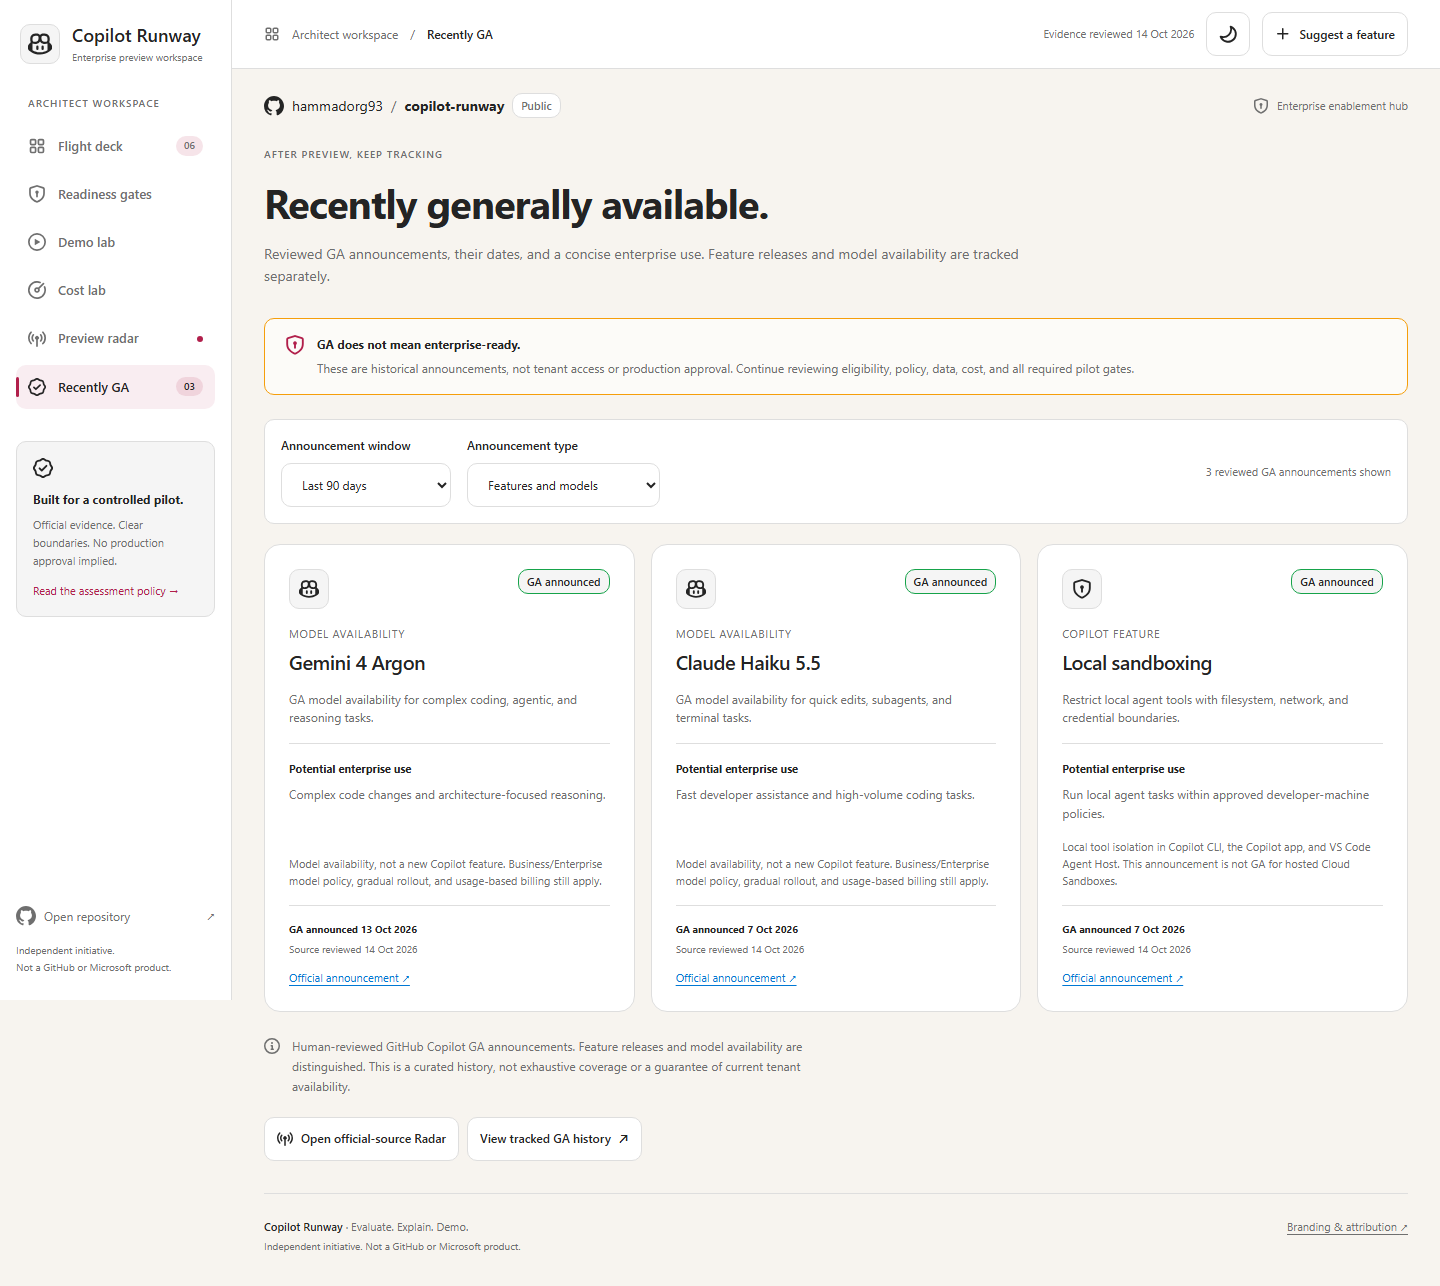
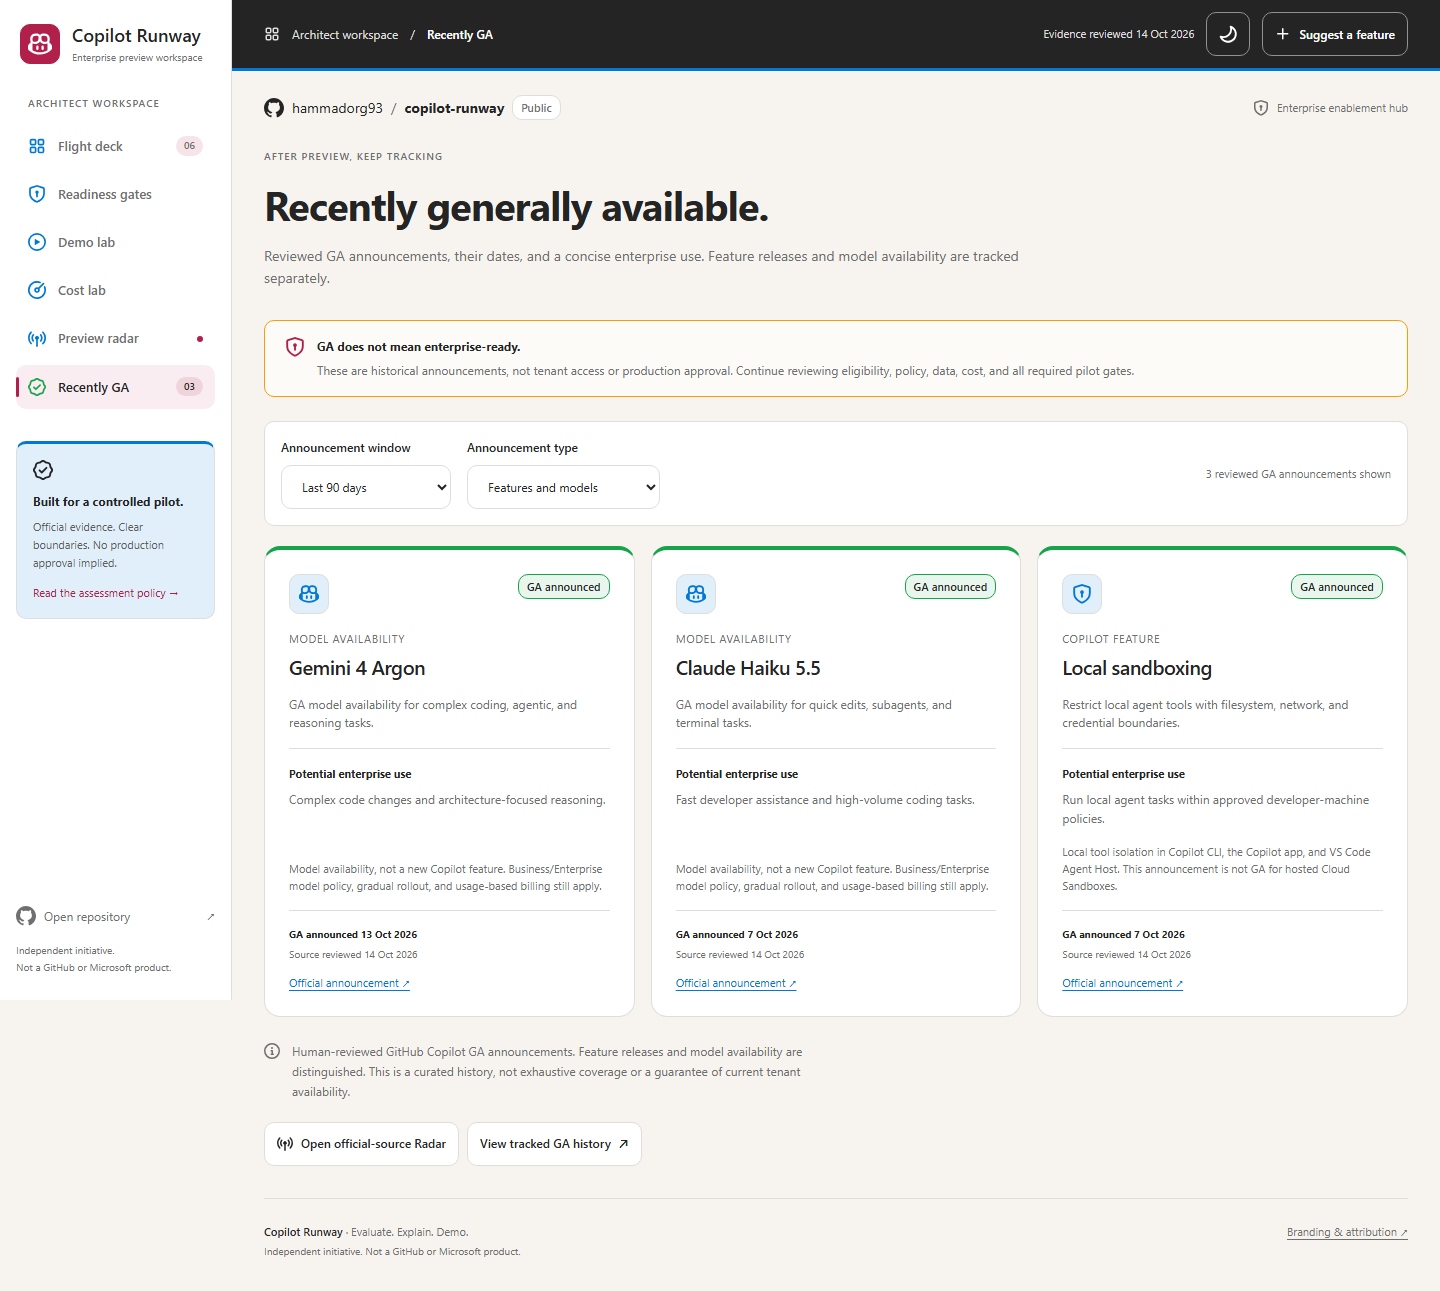
Add Microsoft-blue panels and GitHub-style workspace contrast
Copilot-Session: 4c4f8061-851a-420d-8272-cc33c647e34b

diff --git a/site/styles.css b/site/styles.css
@@ -23,6 +23,17 @@
   --cp-panel-strong: rgba(255, 255, 255, 0.96);
   --cp-sheen: rgba(255, 255, 255, 0.55);
   --cp-highlight: rgba(177, 31, 75, 0.12);
+  --cp-link-soft: color-mix(in srgb, var(--cp-link) 12%, var(--cp-surface));
+  --cp-link-panel: color-mix(in srgb, var(--cp-link) 24%, var(--cp-surface));
+  --cp-link-fg: var(--cp-accent-fg);
+  --cp-success-soft: color-mix(in srgb, var(--cp-success) 10%, var(--cp-surface));
+  --cp-warning-soft: color-mix(in srgb, var(--cp-warning) 12%, var(--cp-surface));
+  --cp-danger-soft: color-mix(in srgb, var(--cp-danger) 8%, var(--cp-surface));
+  --cp-chrome-bg: var(--cp-text);
+  --cp-chrome-fg: var(--cp-surface);
+  --cp-chrome-muted: var(--cp-border);
+  --cp-chrome-hover: color-mix(in srgb, var(--cp-chrome-bg) 80%, var(--cp-chrome-fg));
+  --cp-hero-wash: linear-gradient(115deg, var(--cp-link-panel), var(--cp-link-soft) 52%, var(--cp-surface) 52%, var(--cp-accent-soft));
 }
 html[data-theme="dark"] {
   color-scheme: dark;
@@ -49,6 +60,9 @@ html[data-theme="dark"] {
   --cp-panel-strong: rgba(41, 41, 41, 0.96);
   --cp-sheen: rgba(255, 255, 255, 0.04);
   --cp-highlight: rgba(253, 142, 161, 0.12);
+  --cp-chrome-bg: var(--cp-surface);
+  --cp-chrome-fg: var(--cp-text);
+  --cp-chrome-muted: var(--cp-text-soft);
 }
 * { box-sizing: border-box; }
 [hidden] { display: none !important; }
@@ -81,7 +95,7 @@ svg.octicon { display: block; fill: currentColor; width: 20px; height: 20px; fle
 .brand { display: flex; align-items: center; gap: 12px; padding: 0 4px; color: var(--cp-text); text-decoration: none; font-size: 18px; line-height: 1.3; font-weight: 600; }
 .brand strong { display: inline; font-size: 18px; font-weight: 600; }
 .brand small { display: block; color: var(--cp-text-soft); font-size: 10px; font-weight: 400; margin-top: 4px; }
-.brand-mark { display: flex; align-items: center; justify-content: center; background: var(--cp-surface-soft); color: var(--cp-text); border: 1px solid var(--cp-border); border-radius: .625rem; width: 40px; height: 40px; flex-shrink: 0; }
+.brand-mark { display: flex; align-items: center; justify-content: center; background: var(--cp-accent); color: var(--cp-accent-fg); border: 1px solid var(--cp-accent); border-radius: .625rem; width: 40px; height: 40px; flex-shrink: 0; }
 .brand-mark svg { width: 24px; height: 24px; }
 .nav-eyebrow { color: var(--cp-text-soft); font-size: 10px; font-weight: 600; letter-spacing: .1em; margin: 32px 12px 12px; }
 .sidebar nav { display: grid; gap: 4px; }
@@ -90,25 +104,28 @@ svg.octicon { display: block; fill: currentColor; width: 20px; height: 20px; fle
 .nav-button.active { background: var(--cp-accent-soft); color: var(--cp-text); font-weight: 600; }
 .nav-button.active::before { position: absolute; content: ""; width: 3px; height: 20px; left: 0; top: calc(50% - 10px); border-radius: 4px; background: var(--cp-accent); }
 .nav-button svg { width: 18px; height: 18px; }
+.nav-button [data-icon] { color: var(--cp-link); }
+.nav-button.active [data-icon] { color: var(--cp-accent); }
+.nav-button[data-view="ga"] [data-icon] { color: var(--cp-success); }
 .nav-count { margin-left: auto; font-size: 10px; padding: 2px 8px; background: var(--cp-highlight); border-radius: .625rem; font-variant-numeric: tabular-nums; }
 .live-dot { width: 6px; height: 6px; display: inline-block; border-radius: 50%; background: var(--cp-accent); flex: 0 0 auto; }
 .nav-button .live-dot { margin-left: auto; }
-.sidebar-note { margin-top: 32px; padding: 16px; border: 1px solid var(--cp-border); border-radius: .625rem; font-size: 12px; background: var(--cp-surface-soft); }
+.sidebar-note { margin-top: 32px; padding: 16px; border: 1px solid var(--cp-border); border-top: 3px solid var(--cp-link); border-radius: .625rem; font-size: 12px; background: var(--cp-link-soft); }
 .sidebar-note .small-icon { color: var(--cp-text); margin-bottom: 12px; }
 .sidebar-note strong { display: block; font-size: 12px; margin-bottom: 8px; }
-.sidebar-note p { font-size: 11px; line-height: 1.6; margin-bottom: 12px; }
+.sidebar-note p { font-size: 11px; line-height: 1.6; margin-bottom: 12px; color: var(--cp-text-muted); }
 .sidebar-note a { font-size: 11px; color: var(--cp-accent); text-decoration: none; }
 .sidebar-bottom { margin-top: auto; padding-top: 32px; }
 .sidebar-bottom a { display: flex; gap: 8px; align-items: center; text-decoration: none; color: var(--cp-text-soft); font-size: 12px; }
 .sidebar-bottom a span:last-child { margin-left: auto; }
 .sidebar-bottom small { display: block; color: var(--cp-text-soft); margin-top: 16px; font-size: 10px; line-height: 1.7; }
 .workspace { min-width: 0; }
-.topbar { position: sticky; top: 0; z-index: 3; display: flex; justify-content: space-between; align-items: center; padding: 12px 32px; border-bottom: 1px solid var(--cp-border); gap: 16px; min-height: 64px; background: var(--cp-surface); }
-.breadcrumb { display: flex; align-items: center; gap: 12px; color: var(--cp-text-soft); font-size: 12px; }
-.breadcrumb strong { color: var(--cp-text); font-weight: 600; }
+.topbar { position: sticky; top: 0; z-index: 3; display: flex; justify-content: space-between; align-items: center; padding: 12px 32px; border-bottom: 3px solid var(--cp-link); gap: 16px; min-height: 64px; background: var(--cp-chrome-bg); color: var(--cp-chrome-fg); }
+.breadcrumb { display: flex; align-items: center; gap: 12px; color: var(--cp-chrome-muted); font-size: 12px; }
+.breadcrumb strong { color: var(--cp-chrome-fg); font-weight: 600; }
 .breadcrumb-icon svg { width: 16px; height: 16px; }
 .topbar-actions { display: flex; gap: 12px; align-items: center; }
-.topbar-date { font-size: 11px; color: var(--cp-text-soft); }
+.topbar-date { font-size: 11px; color: var(--cp-chrome-muted); }
 .button, .icon-button { display: inline-flex; justify-content: center; align-items: center; gap: 8px; border-radius: .625rem; border: 1px solid var(--cp-border); padding: 12px 16px; background: var(--cp-surface); color: var(--cp-text); text-decoration: none; font-weight: 600; font-size: 13px; line-height: 1.4; }
 .button:hover, .icon-button:hover { background: var(--cp-surface-soft); border-color: var(--cp-border-strong); }
 .button-primary { background: var(--cp-accent); color: var(--cp-accent-fg); border-color: var(--cp-accent); }
@@ -116,6 +133,8 @@ svg.octicon { display: block; fill: currentColor; width: 20px; height: 20px; fle
 .button-small { padding: 8px 12px; min-height: 44px; font-size: 12px; }
 .button-small svg { width: 16px; height: 16px; }
 .icon-button { padding: 8px; min-width: 44px; min-height: 44px; background: var(--cp-surface); }
+.topbar .button, .topbar .icon-button { background: var(--cp-chrome-bg); color: var(--cp-chrome-fg); border-color: var(--cp-border-strong); }
+.topbar .button:hover, .topbar .icon-button:hover { background: var(--cp-chrome-hover); border-color: var(--cp-chrome-fg); }
 .text-link { border: 0; padding: 8px 0; min-height: 44px; display: inline-flex; gap: 8px; align-items: center; background: inherit; color: var(--cp-accent); font-size: 13px; font-weight: 600; text-decoration: none; }
 .text-link:hover { text-decoration: underline; }
 main { max-width: 1584px; margin: 0 auto; padding: 24px 32px 32px; outline: 0; }
@@ -127,20 +146,21 @@ main { max-width: 1584px; margin: 0 auto; padding: 24px 32px 32px; outline: 0; }
 .repo-identity a > span[aria-hidden] { color: var(--cp-text-soft); }
 .workspace-label { display: flex; align-items: center; gap: 8px; color: var(--cp-text-soft); font-size: 11px; white-space: nowrap; }
 .workspace-label svg { width: 16px; height: 16px; }
-.hero { display: grid; grid-template-columns: minmax(0, 1.2fr) minmax(320px, 1fr); gap: 32px; align-items: center; border: 1px solid var(--cp-border); border-radius: 16px; background: var(--cp-surface); padding: 32px; margin-bottom: 20px; }
+.hero { display: grid; grid-template-columns: minmax(0, 1.2fr) minmax(320px, 1fr); gap: 32px; align-items: center; border: 1px solid var(--cp-border); border-top: 4px solid var(--cp-link); border-radius: 16px; background: var(--cp-surface); background-image: var(--cp-hero-wash); padding: 32px; margin-bottom: 20px; }
 .eyebrow { display: inline-flex; gap: 8px; align-items: center; font-size: 10px; font-weight: 600; letter-spacing: .1em; color: var(--cp-text-soft); margin-bottom: 16px; }
 .eyebrow svg { width: 18px; height: 18px; color: var(--cp-text); }
 .hero h1 { margin-bottom: 16px; }
-.hero h1 span { color: var(--cp-text); }
-.hero-copy > p { line-height: 1.7; font-size: 14px; max-width: 440px; }
+.hero h1 span { color: var(--cp-accent); }
+.hero-copy > p { line-height: 1.7; font-size: 14px; max-width: 440px; color: var(--cp-text); }
+.hero .eyebrow { color: var(--cp-text); }
 .hero-actions { display: flex; align-items: center; flex-wrap: wrap; gap: 12px; margin-top: 24px; }
 .hero-actions .button { font-size: 12px; }
 .hero-actions svg { width: 16px; height: 16px; }
-.hero-proof { display: flex; flex-wrap: wrap; gap: 12px 16px; margin-top: 20px; color: var(--cp-text-soft); font-size: 10px; }
+.hero-proof { display: flex; flex-wrap: wrap; gap: 12px 16px; margin-top: 20px; color: var(--cp-text); font-size: 10px; }
 .hero-proof > span { display: inline-flex; align-items: center; gap: 6px; }
 .hero-proof svg { width: 14px; height: 14px; }
 .kit-preview { min-width: 0; border: 1px solid var(--cp-border); border-radius: .625rem; overflow: hidden; background: var(--cp-surface); }
-.kit-titlebar { display: flex; justify-content: space-between; align-items: center; flex-wrap: wrap; gap: 8px; padding: 12px 16px; border-bottom: 1px solid var(--cp-border); background: var(--cp-surface-soft); }
+.kit-titlebar { display: flex; justify-content: space-between; align-items: center; flex-wrap: wrap; gap: 8px; padding: 12px 16px; border-bottom: 1px solid var(--cp-border); background: var(--cp-link-soft); }
 .kit-titlebar > span { display: flex; align-items: center; gap: 8px; font-size: 11px; }
 .kit-titlebar svg { width: 16px; height: 16px; }
 .kit-heading { display: flex; gap: 12px; align-items: center; padding: 20px 16px; }
@@ -160,11 +180,17 @@ main { max-width: 1584px; margin: 0 auto; padding: 24px 32px 32px; outline: 0; }
 .kit-footer svg { width: 14px; height: 14px; }
 .metrics { display: grid; grid-template-columns: repeat(4, minmax(0, 1fr)); gap: 12px; margin-bottom: 32px; }
 .metric { border: 1px solid var(--cp-border); border-radius: .625rem; padding: 16px 20px; background: var(--cp-surface); position: relative; }
+.metric:nth-child(1), .metric:nth-child(2) { border-top: 3px solid var(--cp-link); background: var(--cp-link-soft); }
+.metric:nth-child(3) { border-top: 3px solid var(--cp-accent); background: var(--cp-accent-soft); }
+.metric:nth-child(4) { border-top: 3px solid var(--cp-warning); background: var(--cp-warning-soft); }
+.metric:nth-child(1) .metric-icon, .metric:nth-child(2) .metric-icon { color: var(--cp-link); }
+.metric:nth-child(3) .metric-icon { color: var(--cp-accent); }
+.metric:nth-child(4) .metric-icon { color: var(--cp-warning); }
 .metric-icon { position: absolute; top: 16px; right: 16px; color: var(--cp-text-soft); }
 .metric-icon svg { width: 18px; height: 18px; }
 .metric strong { display: block; font-size: 28px; font-weight: 600; line-height: 1.2; letter-spacing: -.03em; font-variant-numeric: tabular-nums; }
 .metric-label { display: block; font-size: 13px; margin: 8px 0 4px; font-weight: 600; }
-.metric small { display: block; color: var(--cp-text-soft); font-size: 12px; line-height: 1.5; }
+.metric small { display: block; color: var(--cp-text-muted); font-size: 12px; line-height: 1.5; }
 .section-heading { display: flex; justify-content: space-between; gap: 20px; align-items: flex-end; margin-bottom: 24px; }
 .section-heading .eyebrow { margin-bottom: 8px; }
 .section-heading h2 { font-size: 24px; }
@@ -185,9 +211,10 @@ kbd { border: 1px solid var(--cp-border); border-radius: 4px; padding: 0 6px; fo
 .result-count { font-size: 12px; color: var(--cp-text-soft); white-space: nowrap; }
 .feature-grid { display: grid; grid-template-columns: repeat(3, minmax(0, 1fr)); gap: 16px; }
 .feature-card { min-width: 0; border: 1px solid var(--cp-border); border-radius: 16px; background: var(--cp-surface); padding: 24px; display: flex; flex-direction: column; transition: border-color .18s; }
-.feature-card:hover, .feature-card:focus-within { border-color: var(--cp-border-strong); }
+.feature-card:hover, .feature-card:focus-within { border-color: var(--cp-link); }
 .feature-art { display: block; width: 100%; height: auto; }
-.feature-cover { position: relative; display: block; width: calc(100% + 48px); margin: -24px -24px 20px; padding: 0; border: 0; border-bottom: 1px solid var(--cp-border); border-radius: 15px 15px 0 0; overflow: hidden; background: var(--cp-surface-soft); text-align: left; }
+.feature-cover { position: relative; display: block; width: calc(100% + 48px); margin: -24px -24px 20px; padding: 0; border: 0; border-bottom: 3px solid var(--cp-link); border-radius: 15px 15px 0 0; overflow: hidden; background: var(--cp-link-soft); text-align: left; }
+.feature-card[data-lifecycle="experimental"] .feature-cover { border-bottom-color: var(--cp-accent); background: var(--cp-surface); }
 .feature-cover:hover { box-shadow: inset 0 -3px var(--cp-accent); }
 .visual-label { position: absolute; bottom: 8px; right: 12px; font-size: 10px; padding: 2px 8px; color: var(--cp-text-soft); background: var(--cp-surface); border: 1px solid var(--cp-border); border-radius: 4px; }
 .kit-visual { border-bottom: 1px solid var(--cp-border); }
@@ -198,16 +225,17 @@ kbd { border: 1px solid var(--cp-border); border-radius: 4px; padding: 0 6px; fo
 .feature-story figcaption p { margin-bottom: 8px; }
 .feature-story figcaption small { display: block; color: var(--cp-text-soft); font-size: 11px; margin-bottom: 16px; }
 .card-top { display: flex; justify-content: space-between; align-items: flex-start; gap: 12px; margin-bottom: 16px; }
-.feature-icon { display: flex; align-items: center; justify-content: center; width: 40px; height: 40px; border: 1px solid var(--cp-border); border-radius: .625rem; color: var(--cp-text); background: var(--cp-surface-soft); flex: 0 0 auto; }
+.feature-icon { display: flex; align-items: center; justify-content: center; width: 40px; height: 40px; border: 1px solid var(--cp-border); border-radius: .625rem; color: var(--cp-link); background: var(--cp-link-soft); flex: 0 0 auto; }
+.feature-card[data-lifecycle="experimental"] .feature-icon { color: var(--cp-accent); background: var(--cp-accent-soft); }
 .card-badges { display: flex; flex-wrap: wrap; gap: 6px; margin-bottom: 16px; }
 .badge { display: inline-flex; align-items: center; gap: 4px; width: fit-content; font-size: 11px; line-height: 1.4; font-weight: 500; padding: 4px 8px; border-radius: .625rem; border: 1px solid var(--cp-border); background: var(--cp-surface-soft); color: var(--cp-text-soft); white-space: nowrap; }
-.badge-preview { color: var(--cp-text); background: var(--cp-surface-soft); }
-.badge-experimental { border-color: var(--cp-warning); color: var(--cp-text); }
+.badge-preview { border-color: var(--cp-link); color: var(--cp-text); background: var(--cp-link-soft); }
+.badge-experimental { border-color: var(--cp-warning); color: var(--cp-text); background: var(--cp-warning-soft); }
 .badge-neutral { color: var(--cp-text-soft); background: var(--cp-surface); }
-.badge-blocked { border-color: var(--cp-danger); color: var(--cp-text); }
-.badge-conditional { border-color: var(--cp-warning); color: var(--cp-text); }
-.badge-ready, .badge-pass { border-color: var(--cp-success); color: var(--cp-text); }
-.badge-unknown, .badge-fail { border-color: var(--cp-danger); color: var(--cp-text); }
+.badge-blocked { border-color: var(--cp-danger); color: var(--cp-text); background: var(--cp-danger-soft); }
+.badge-conditional { border-color: var(--cp-warning); color: var(--cp-text); background: var(--cp-warning-soft); }
+.badge-ready, .badge-pass { border-color: var(--cp-success); color: var(--cp-text); background: var(--cp-success-soft); }
+.badge-unknown, .badge-fail { border-color: var(--cp-danger); color: var(--cp-text); background: var(--cp-danger-soft); }
 .category-label { font-size: 11px; letter-spacing: .06em; text-transform: uppercase; color: var(--cp-text-soft); margin-bottom: 8px; }
 .feature-card h3 { min-height: 48px; margin-bottom: 12px; }
 .feature-title { display: block; border: 0; padding: 0; text-align: left; background: var(--cp-surface); color: var(--cp-text); font-size: 20px; font-weight: 600; letter-spacing: -.02em; line-height: 1.25; }
@@ -233,6 +261,7 @@ kbd { border: 1px solid var(--cp-border); border-radius: 4px; padding: 0 6px; fo
 .card-actions { display: grid; grid-template-columns: repeat(3, minmax(0, 1fr)); gap: 8px; }
 .card-actions .button { font-size: 12px; padding: 8px; min-height: 44px; gap: 6px; background: var(--cp-surface-soft); }
 .card-actions .button:hover { background: var(--cp-surface); }
+.card-actions .button[data-tab="demo"] { color: var(--cp-accent); border-color: var(--cp-accent); background: var(--cp-accent-soft); }
 .card-actions .button svg { width: 14px; height: 14px; }
 .compare-toggle { border: 1px solid var(--cp-border); border-radius: .625rem; padding: 8px; min-height: 44px; color: var(--cp-text-soft); background: var(--cp-surface); font-size: 12px; display: flex; align-items: center; gap: 6px; }
 .compare-toggle:hover { color: var(--cp-text); background: var(--cp-surface-soft); }
@@ -343,7 +372,7 @@ pre { margin: 0; white-space: pre-wrap; overflow-wrap: anywhere; font-size: 11px
 .ga-controls select { font-size: 12px; font-weight: 400; }
 #ga-result-count { margin-left: auto; align-self: center; font-size: 11px; color: var(--cp-text-soft); }
 .ga-grid { display: grid; grid-template-columns: repeat(3, minmax(0, 1fr)); gap: 16px; }
-.ga-card { min-width: 0; display: flex; flex-direction: column; padding: 24px; border: 1px solid var(--cp-border); border-radius: 16px; background: var(--cp-surface); }
+.ga-card { min-width: 0; display: flex; flex-direction: column; padding: 24px; border: 1px solid var(--cp-border); border-top: 4px solid var(--cp-success); border-radius: 16px; background: var(--cp-surface); }
 .ga-card h2 { font-size: 20px; margin-bottom: 16px; }
 .ga-card p { font-size: 12px; }
 .ga-enterprise-use { border-top: 1px solid var(--cp-border); padding-top: 16px; }

diff --git a/README.md b/README.md
@@ -28,7 +28,7 @@ Copilot Runway is an independent workspace for Cloud Solution Architects prepari
 
 The site, slides, assessments, and runbooks are **public** and need no GitHub sign-in to view. Opening issues or proposing repository changes requires the appropriate GitHub account and permissions.
 
-The portal uses a responsive Microsoft Fluent-inspired shell and GitHub Primer-style feature explorer, Segoe typography, official Octicons, and light/dark themes. It is a self-contained static app: **no runtime API or model calls, analytics, remote fonts, customer data, or live automation**. Runbooks explain how to exercise the real products separately.
+The portal uses a responsive Microsoft Fluent-inspired shell and GitHub Primer-style feature explorer, Segoe typography, official Octicons, and light/dark themes. Microsoft-blue panels and preview illustrations, charcoal workspace chrome, rose action accents, and clearly labeled lifecycle/status colors make the controls easier to scan. Colors derive from shared theme tokens; they do not change readiness findings. It is a self-contained static app: **no runtime API or model calls, analytics, remote fonts, customer data, or live automation**. Runbooks explain how to exercise the real products separately.
 
 Each feature now has an original, theme-aware **concept illustration**: a GUI service-desk edit, specialist journal, governed workflow draft, isolated cloud session, cited repository context, or bounded test-repair cycle. Click the illustrated cover for its control story and download a self-contained SVG for customer conversations. These are clearly labeled illustrations, not official product screenshots or evidence of a live run. Maintain them in `site/feature-visuals.mjs`; the build embeds them offline and exports `dist\artifacts\visuals\<feature-id>.svg` without changing assessed feature evidence or slide fingerprints.
 
